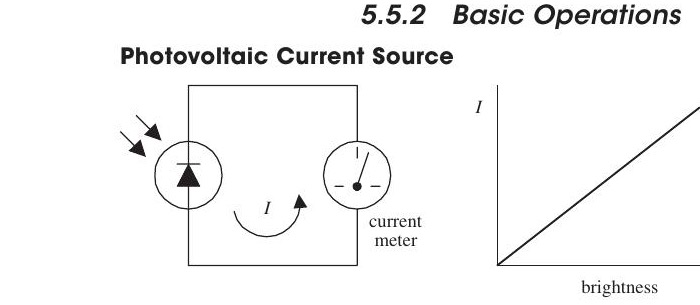
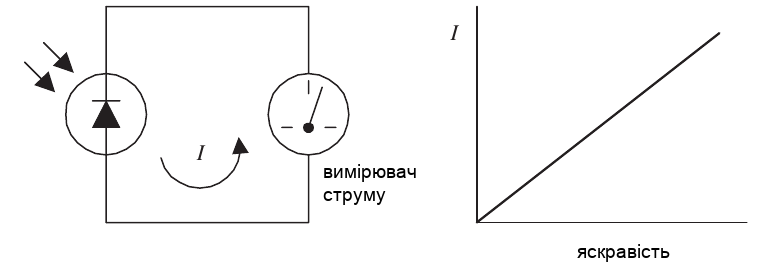
5.5: перевірка перекладу, прибрано додане (підписи до рис. 5.16–5.19), додано пропущене («тощо»), виправлено переклад, переклад рисунків 5.16–5.19 (перекроєно з PDF), формули (V→U), одиниці, конспект у структурі 🔹

diff --git a/Електроніка/5.5 Фотодіоди.md b/Електроніка/5.5 Фотодіоди.md
@@ -3,7 +3,7 @@
 Джерело: [[Practical Electronics for Inventors(4th Edition).pdf#page=543|Practical Electronics for Inventors, 4-те видання, с. 514–516 (PDF 543–545)]].
 
 > [!info] Структура нотатки
-> Спочатку наведено повний переклад розділу 5.5 у послідовності підручника — разом із підрозділами 5.5.1–5.5.3, рисунками 5.16–5.19 і таблицею 5.2. Лише після завершення перекладу розміщено примітки, [[#Конспект|конспект]] і матеріали для повторення.
+> Спочатку наведено повний переклад розділу 5.5 у послідовності підручника — разом із підрозділами 5.5.1–5.5.3, рисунками 5.16–5.19 і таблицею 5.2. Лише після завершення перекладу розміщено примітки, формули, [[#Конспект для повторення|конспект]] і матеріали для закріплення.
 
 ## Повний переклад розділу
 
@@ -13,9 +13,8 @@
 
 ![[Зображення/Розділ 5/Рисунок 5.16 Умовне позначення фотодіода.png]]
 
-**Рисунок 5.16.** Умовне позначення фотодіода. Стрілки, спрямовані до переходу, означають світло, що падає на пристрій; ліворуч позначено анод, праворуч — катод.
 
-Фотодіоди найчастіше використовують для виявлення швидких імпульсів ближнього інфрачервоного випромінювання в бездротовому зв’язку. Їх також часто застосовують у схемах вимірювання світла — наприклад, у експонометрах фотокамер і охоронній сигналізації, — оскільки вони мають дуже лінійну залежність струму від освітлення.
+Фотодіоди найчастіше використовують для виявлення швидких імпульсів ближнього інфрачервоного випромінювання в бездротовому зв’язку. Їх також часто застосовують у схемах вимірювання світла — наприклад, в експонометрах фотокамер, охоронній сигналізації тощо, — оскільки вони мають дуже лінійну залежність струму від освітлення.
 
 ### 5.5.1 Як працює фотодіод
 
@@ -31,7 +30,6 @@
 
 ![[Зображення/Розділ 5/Рисунок 5.17 Принцип роботи фотодіода.png]]
 
-**Рисунок 5.17.** Будова й принцип роботи фотодіода. Світло проходить крізь дуже тонку область $n$, утворює носії заряду поблизу переходу, а внутрішнє поле розділяє їх. На рисунку показано електронний струм від катода до анода та протилежно спрямований умовний струм.
 
 ### 5.5.2 Основні режими роботи
 
@@ -41,13 +39,12 @@
 
 ![[Зображення/Розділ 5/Рисунок 5.18 Фотовольтаїчний режим.png]]
 
-**Рисунок 5.18, частина 1.** Фотодіод працює як фотовольтаїчне джерело струму без зовнішнього джерела напруги. Графік показує майже лінійне зростання струму $I$ зі збільшенням яскравості.
 
 #### Фотопровідний режим
 
-Окремий фотодіод може не створювати струму, достатнього для керування певною світлочутливою схемою. Тому його зазвичай використовують разом із джерелом напруги.
+Окремі фотодіоди можуть не створювати струму, достатнього для керування певною світлочутливою схемою. Зазвичай їх використовують разом із джерелом напруги.
 
-У показаній схемі фотодіод під’єднано до батареї зі зворотним зміщенням. У темряві крізь нього протікає малий струм, який називають темновим; він лежить у діапазоні наноамперів. Коли фотодіод освітлюють, протікає більший струм.
+У показаній схемі фотодіод під’єднано до батареї зі зворотним зміщенням. У темряві крізь нього протікає малий струм, який називають *темновим струмом*; він лежить у діапазоні наноамперів. Коли фотодіод освітлюють, протікає більший струм.
 
 На відміну від попередньої схеми, тут батарея використовується для збільшення вихідного струму. Послідовно з діодом і батареєю можна встановити резистор для калібрування вимірювального приладу.
 
@@ -55,7 +52,6 @@
 
 ![[Зображення/Розділ 5/Рисунок 5.18 Фотопровідний режим.png]]
 
-**Рисунок 5.18, частина 2.** Фотопровідний режим: фотодіод зміщено у зворотному напрямку зовнішньою батареєю; освітлення збільшує зворотний струм.
 
 ### 5.5.3 Різновиди фотодіодів
 
@@ -65,18 +61,17 @@
 
 ![[Зображення/Розділ 5/Рисунок 5.19 Корпуси фотодіодів.png]]
 
-**Рисунок 5.19.** Приклади різних форм і корпусів фотодіодів.
 
 #### Таблиця 5.2. Фрагмент таблиці характеристик фотодіода
 
-| № виробника | Опис | Максимальна зворотна напруга $V_R$ | Максимальний темновий струм $I_D$ | Мінімальний світловий струм $I_L$ | Розсіювана потужність $P_D$ | Час наростання $t_r$ | Типовий кут виявлення | Типова пікова довжина хвилі випромінювання $\lambda_P$ |
+| № виробника | Опис | Максимальна зворотна напруга $U_R$ | Максимальний темновий струм $I_D$ | Мінімальний світловий струм $I_L$ | Розсіювана потужність $P_D$ | Час наростання $t_r$ | Типовий кут виявлення | Типова пікова довжина хвилі випромінювання $\lambda_P$ |
 |---|---|---:|---:|---:|---:|---:|---:|---:|
-| NTE3033 | Інфрачервоний | $30\,\mathrm V$ | $50\,\mathrm{nA}$ | $35\,\mathrm{\mu A}$ | $100\,\mathrm{mW}$ | $50\,\mathrm{ns}$ | $65^{\circ}$ | $900\,\mathrm{nm}$ |
+| NTE3033 | Інфрачервоний | $30\,\mathrm{В}$ | $50\,\mathrm{нА}$ | $35\,\mathrm{мкА}$ | $100\,\mathrm{мВт}$ | $50\,\mathrm{нс}$ | $65^{\circ}$ | $900\,\mathrm{нм}$ |
 
 ## Примітки до тексту підручника
 
 > [!note] «Пікова довжина хвилі випромінювання» в таблиці 5.2
-> Фотодіод у цьому розділі працює як детектор, а не випромінювач. Тому останній заголовок таблиці, імовірно, є редакційною помилкою. Для фотоприймача практично мають на увазі довжину хвилі максимальної спектральної чутливості або пікового відгуку — у наведеному прикладі $900\,\mathrm{nm}$.
+> Фотодіод у цьому розділі працює як детектор, а не випромінювач. Тому останній заголовок таблиці, імовірно, є редакційною помилкою. Для фотоприймача практично мають на увазі довжину хвилі максимальної спектральної чутливості або пікового відгуку — у наведеному прикладі $900\,\mathrm{нм}$.
 
 > [!note] Напрямки струму
 > Під дією світла електрони зовнішнім колом рухаються від катода до анода, а умовний струм — від анода до катода. У схемах зі зворотним зміщенням катод під’єднують до позитивнішого потенціалу, а анод — до негативнішого.
@@ -90,26 +85,75 @@
 > [!note] Що означає «батарея збільшує вихідний струм»
 > Зворотне зміщення не створює фотони й не замінює оптичну потужність. Воно збільшує електричне поле в переході, швидше збирає утворені світлом носії та дає зручний електричний сигнал у зовнішній схемі. Водночас існують темновий струм, шум і обмеження максимальної зворотної напруги.
 
-## Конспект
+## Формули розділу
 
-### Головна ідея
+У тексті 5.5 немає жодної числової формули — лише якісне твердження про майже лінійну залежність струму від яскравості (рис. 5.18). Решта формул — довідкові, не з підручника.
 
-Фотодіод виконує перетворення, протилежне до LED:
+**Формула**: $I \propto$ яскравість (рис. 5.18, фотовольтаїчний режим; з тексту підручника)
+**Позначення**: $I$ — вихідний струм фотодіода; яскравість — інтенсивність світла, що падає на пристрій.
+**Фізичний смисл**: відгук фотодіода майже лінійний — удвічі більше світла дає удвічі більший струм. Тому його використовують у світломірах.
 
-$$
-\text{фотони}
-\rightarrow \text{електронно-діркові пари}
-\rightarrow \text{розділення носіїв полем переходу}
-\rightarrow \text{фотострум}.
-$$
+**Формула**: $I_{ph}\approx \mathcal{R}_{\lambda}P_{opt}$ (довідково, не з розділу)
+**Позначення**: $I_{ph}$ — фотострум, А; $P_{opt}$ — оптична потужність на активній області, Вт; $\mathcal{R}_{\lambda}$ — спектральна чутливість за довжини хвилі $\lambda$, А/Вт.
+**Фізичний смисл**: кількісна форма «лінійного відгуку»: фотострум пропорційний потужності світла, а коефіцієнт залежить від довжини хвилі.
 
-У першому наближенні фотострум майже пропорційний оптичній потужності:
+**Формула**: $I_{rev}\approx I_D+I_{ph}$ (довідково; фотопровідний режим, рис. 5.18)
+**Позначення**: $I_{rev}$ — зворотний струм фотодіода; $I_D$ — темновий струм (порядку нА); $I_{ph}$ — фотострум від освітлення.
+**Фізичний смисл**: у темряві тече лише $I_D$, на світлі додається $I_{ph}$; корисний сигнал — приріст струму.
 
-$$
-I_{ph}\approx \mathcal{R}_{\lambda}P_{opt},
-$$
+**Формула**: $U_{out}\approx I_{ph}R_L$ (довідково)
+**Позначення**: $U_{out}$ — вихідна напруга; $R_L$ — резистор навантаження.
+**Фізичний смисл**: найпростіший спосіб перетворити фотострум на напругу, яку можна виміряти.
 
-де $I_{ph}$ — фотострум, $P_{opt}$ — оптична потужність, що потрапила на активну область, а $\mathcal{R}_{\lambda}$ — спектральна чутливість фотодіода за певної довжини хвилі, у $\mathrm{A/W}$.
+**Формула**: $\tau\approx R_LC_D$ (довідково)
+**Позначення**: $\tau$ — стала часу; $R_L$ — опір навантаження; $C_D$ — ємність переходу фотодіода.
+**Фізичний смисл**: більша площа → більша ємність $C_D$ → більша $\tau$ → повільніший відгук (див. 5.5.3).
+
+**Формула**: $U_{out}\approx -I_{ph}R_F$ (довідково; трансимпедансний підсилювач)
+**Позначення**: $R_F$ — резистор зворотного зв’язку ОП; знак «−» — інвертування.
+**Фізичний смисл**: перетворює струм на напругу з малим впливом ємності фотодіода; стандартна схема для точних і швидких вимірювань.
+
+## Конспект для повторення
+
+### 🔹 Головна ідея розділу
+
+Фотодіод — двовивідний пристрій, який безпосередньо перетворює енергію фотонів на електричний струм. Він працює навпаки до світлодіода: LED перетворює струм на світло, фотодіод — світло на струм. Фотон проходить крізь тонкий шар $n$, у товщі $p$ вибиває зв’язаний електрон і створює дірку; поблизу $pn$-переходу електрон переходить в область $n$, а дірка залишається в області $p$. Розділення зарядів створює різницю потенціалів, і, якщо замкнути коло, потече струм. Відгук майже лінійний, тому фотодіоди добре підходять для вимірювання світла та для швидкого приймання імпульсів ближнього інфрачервоного випромінювання. Комерційний фотодіод зазвичай поміщають у пластиковий або металевий корпус із вікном, у якому можуть бути лінза та оптичний фільтр. Перед роботою з довідковою таблицею корисно пам’ятати головний компроміс: чим більша світлочутлива поверхня, тим більше світла вона збирає, але тим повільніше реагує.
+
+### 🔹 Ключові поняття
+
+1. **Будова й полярність.** Тонкий шар $n$ — катод, товстіший $p$ — анод. Електрони в зовнішньому колі йдуть від катода до анода, умовний струм — від анода до катода. Стрілки на символі спрямовані до діода.
+2. **Фотовольтаїчний режим.** Без зовнішнього джерела: фотодіод сам є малим джерелом струму; струм майже лінійно залежить від яскравості.
+3. **Фотопровідний режим.** Діод під’єднано до батареї зі *зворотним* зміщенням. У темряві тече малий темновий струм (нА), на світлі — більший. Батарея збільшує вихідний струм; послідовний резистор калібрує прилад. Пряме ввімкнення, як у звичайного діода, не працює.
+4. **Різновиди.** Лінзи, оптичні фільтри, швидкодійні моделі, великі площі для чутливості. Зі зростанням площі відгук сповільнюється.
+5. **Параметри (табл. 5.2).** $U_R$, $I_D$, $I_L$, $P_D$, $t_r$, кут виявлення, пікова довжина хвилі. Максимальна зворотна напруга й розсіювана потужність — межі безпечної роботи, темновий і світловий струми описують сигнал, а час наростання — швидкодію. Приклад NTE3033: інфрачервоний, $30\,\mathrm{В}$, $50\,\mathrm{нА}$, $35\,\mathrm{мкА}$, $100\,\mathrm{мВт}$, $50\,\mathrm{нс}$, $65^{\circ}$, $900\,\mathrm{нм}$.
+
+### 🔹 Зв’язок з попередніми темами
+
+- З розділу 4 — $pn$-перехід і діоди: фотодіод є діодом, у якого перехід відкрито для світла, а «правильне» ввімкнення протилежне до звичайного діода.
+- З 5.1 — фотони та їхня енергія: фотон має передати достатньо енергії, щоб вивільнити зв’язаний електрон.
+- З 5.3 — LED: те саме явище в зворотному напрямку.
+- З 5.4 — фоторезистор: теж чутливий до світла, але змінює опір, не має полярності й набагато повільніший.
+
+### 🔹 Практичне застосування
+
+- Швидке виявлення імпульсів ближнього ІЧ-випромінювання в бездротовому зв’язку (пульти, оптичні лінії).
+- Світломіри, наприклад в експонометрах фотокамер, завдяки лінійному відгуку.
+- Охоронна сигналізація, де важливо надійно помітити зміну освітлення.
+- Прості лабораторні вимірювання: прилад у колі показує струм, пропорційний яскравості, а послідовний резистор допомагає відкалібрувати шкалу.
+- Наступний крок: фотодіод у трансимпедансному підсилювачі та узгодження з ІЧ-світлодіодом, пікові довжини хвиль яких мають збігатися.
+
+### 🔹 Що запам’ятати
+
+- Фотодіод: **світло → струм**. Полярність обов’язкова.
+- Анод — $p$, катод — $n$. Для зворотного зміщення катод до «+».
+- Два режими: без зміщення (фотовольтаїчний) і зі зворотним зміщенням (фотопровідний).
+- Темновий струм — струм без світла, порядку нА.
+- Більша площа дає більшу чутливість, але повільніший відгук.
+- Відгук майже лінійний: $I\propto$ яскравість; саме це робить фотодіод зручним датчиком світла.
+- Фотодіод — це не LED і не LDR: він має полярність, дуже швидкий і перетворює світло на струм, а не на зміну опору.
+- У таблиці дивись $U_R$, $I_D$, $I_L$, $t_r$ і довжину хвилі.
+
+## Додаткові матеріали для закріплення
 
 ### Два режими роботи
 
@@ -125,35 +169,13 @@ $$
 
 | Позначення | Значення | Що перевіряти |
 |---|---|---|
-| $V_R$ | Максимальна зворотна напруга | Не перевищувати в жодному режимі |
+| $U_R$ | Максимальна зворотна напруга | Не перевищувати в жодному режимі |
 | $I_D$ | Темновий струм | Фоновий струм без освітлення |
 | $I_L$ | Світловий струм | Сигнал за заданих умов освітлення |
 | $P_D$ | Допустима розсіювана потужність | Теплове обмеження пристрою |
 | $t_r$ | Час наростання | Швидкість реакції на світловий імпульс |
 | $\lambda_P$ | Пікова довжина хвилі відгуку | Де фотодіод найчутливіший |
 | Кут виявлення | Поле огляду | Наскільки точно потрібно спрямувати джерело |
-
-### Перетворення фотоструму на напругу
-
-Найпростіше наближення з резистором навантаження:
-
-$$
-V_{out}\approx I_{ph}R_L.
-$$
-
-Але разом із $R_L$ і ємністю фотодіода утворюється стала часу:
-
-$$
-\tau\approx R_LC_D.
-$$
-
-Тому великий $R_L$ дає більшу напругу, але може сповільнити реакцію. Для точних і швидких вимірювань часто використовують трансимпедансний підсилювач:
-
-$$
-V_{out}\approx -I_{ph}R_F.
-$$
-
-Ці три формули є навчальним доповненням; у самому тексті 5.5 числової формули перетворення струму на напругу немає.
 
 ### Як читати полярність
 
@@ -168,7 +190,7 @@ $$
 | Компонент | Вхід | Вихід | Полярність | Швидкість |
 |---|---|---|---|---|
 | LED | Електричний струм | Світло | Має | Висока |
-| Фотодіод | Світло | Струм | Має | Дуже висока; у прикладі $t_r=50\,\mathrm{ns}$ |
+| Фотодіод | Світло | Струм | Має | Дуже висока; у прикладі $t_r=50\,\mathrm{нс}$ |
 | LDR | Світло | Зміна опору | Не має | Значно нижча; мілісекунди й довше |
 
 ### Підказки для запам’ятовування
@@ -176,7 +198,7 @@ $$
 - **LED: стрілки назовні; фотодіод: стрілки всередину.**
 - **Світло породжує фотострум.** Більше світла — більший струм.
 - **Темновий струм — це нульовий зсув датчика:** струм є навіть без світла.
-- **Reverse bias: катод до плюса.** Це протилежно до прямого ввімкнення звичайного діода.
+- **Зворотне зміщення (reverse bias): катод до плюса.** Це протилежно до прямого ввімкнення звичайного діода.
 - **Велика площа — більше світла, але повільніша реакція.**
 - **Фільтр вибирає спектр, лінза збирає або спрямовує світло.**
 - Для інфрачервоного зв’язку перевіряй, щоб пікова чутливість приймача відповідала довжині хвилі передавача.
@@ -186,7 +208,7 @@ $$
 - Плутати напрямок електронного та умовного струмів.
 - Подавати пряме зміщення замість зворотного у фотопровідному режимі.
 - Вважати темновий струм ознакою освітлення.
-- Ігнорувати максимальну зворотну напругу $V_R$.
+- Ігнорувати максимальну зворотну напругу $U_R$.
 - Підбирати фотодіод лише за площею, не враховуючи час наростання та ємність.
 - Очікувати однакової чутливості до всіх кольорів і довжин хвиль.
 - Під’єднувати фотодіод безпосередньо до цифрового входу й очікувати надійного логічного рівня.
@@ -219,15 +241,15 @@ $$
 
 ### Міні-вправи
 
-1. Фотодіод має спектральну чутливість $0{,}55\,\mathrm{A/W}$ і отримує $20\,\mathrm{\mu W}$ оптичної потужності. Оціни фотострум.
-2. Фотострум $8\,\mathrm{\mu A}$ проходить через резистор навантаження $100\,\mathrm{k\Omega}$. Оціни модуль вихідної напруги.
-3. До сигналу $8\,\mathrm{\mu A}$ додається темновий струм $50\,\mathrm{nA}$. Яку приблизну частку корисного сигналу становить темновий струм?
+1. Фотодіод має спектральну чутливість $0{,}55\,\mathrm{А/Вт}$ і отримує $20\,\mathrm{мкВт}$ оптичної потужності. Оціни фотострум.
+2. Фотострум $8\,\mathrm{мкА}$ проходить через резистор навантаження $100\,\mathrm{кОм}$. Оціни модуль вихідної напруги.
+3. До сигналу $8\,\mathrm{мкА}$ додається темновий струм $50\,\mathrm{нА}$. Яку приблизну частку корисного сигналу становить темновий струм?
 4. Поясни, чому фотодіод із більшою площею може бути кращим для слабкого постійного світла, але гіршим для швидкого оптичного зв’язку.
 
 > [!success]- Відповіді до вправ
-> 1. $I_{ph}=0{,}55\cdot20\cdot10^{-6}=11\,\mathrm{\mu A}$.
-> 2. $V\approx IR=8\cdot10^{-6}\cdot100\cdot10^3=0{,}8\,\mathrm V$.
-> 3. $50\,\mathrm{nA}/8\,\mathrm{\mu A}=0{,}00625$, тобто приблизно $0{,}625\%$.
+> 1. $I_{ph}=0{,}55\cdot20\cdot10^{-6}=11\,\mathrm{мкА}$.
+> 2. $U\approx IR=8\cdot10^{-6}\cdot100\cdot10^3=0{,}8\,\mathrm{В}$.
+> 3. $50\,\mathrm{нА}/8\,\mathrm{мкА}=0{,}00625$, тобто приблизно $0{,}625\,\%$.
 > 4. Велика площа перехоплює більше фотонів і дає більший сигнал, але має більшу ємність, яка збільшує сталу часу та сповільнює відгук.
 
 Попередня тема: [[5.4 Фоторезистори]].
